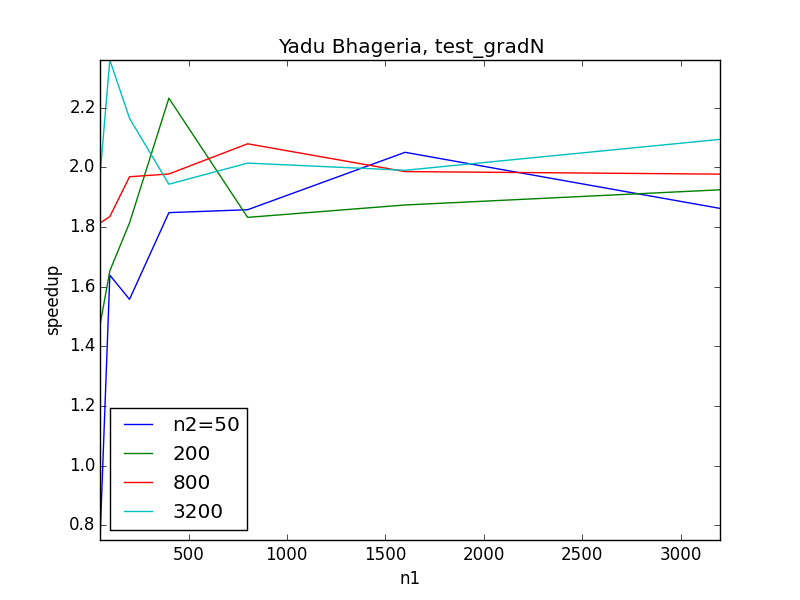
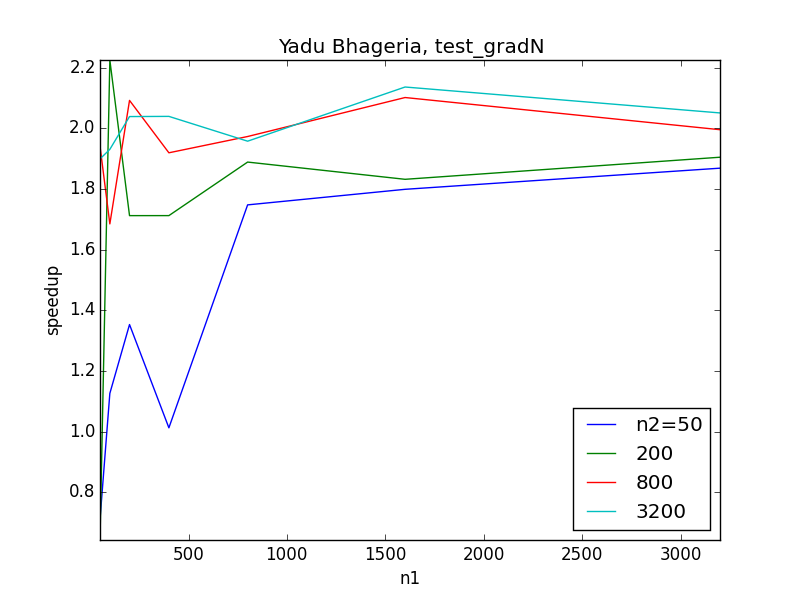
part1: brushed up. Need to convert dev files to ready to submit files only

diff --git a/part1/p1_dev.py b/part1/p1_dev.py
@@ -6,6 +6,9 @@ To build the .so module:
 rm *.mod
 gfortran -c fdmodule.f90 fdmodule2d.f90
 f2py  --f90flags='-fopenmp' -lgomp -c fdmodule.f90 fdmodule2d.f90 -m p1_3 -llapack
+
+Code for functions from solutions for hw41.py which retains its functionality
+and adds functionality for computing speedup between grad and grad2d 
 """
 from p1_3 import fdmodule as f1
 from p1_3 import fdmodule2d as f2d
@@ -40,7 +43,6 @@ def test_grad1(n1,n2,numthreads):
         tarray += [t]
         tparray += [tp]
         t2darray += [t2d]
-    
 
     return e,ep,e2d,np.mean(tarray),np.mean(tparray),np.mean(t2darray)
 
@@ -48,18 +50,22 @@ def test_gradN(numthreads):
     """input: number of threads used in test_grad_omp
     call test_grad1 with a range of grid sizes and
     assess speedup
+    The speeds for the two approaches are different because in grad we loop over
+    rows/columns - depending on whether we compute df/dx1 or df/dx2 - calling 
+    DGSTV many times but in grad2d we call DGSTV once and use its optimized code 
+    to deal with the looping to solve the nrhs systems of equations in one go.
     """
-
+        
     n1values = np.array([50, 100, 200, 400, 800, 1600, 3200])
     n2values = n1values
     nn = np.size(n1values)
     speedup = np.empty((nn,nn))
     speedup2d = np.empty((nn,nn))
-
+    
     #loop through 50<n1,n2<1600 storing speedup
     for i in enumerate(n1values):
         for j in enumerate(n2values):
-            print "running with n1,n2=",i[1],j[1]              
+            print "running with n1,n2=",i[1],j[1]          
             f2d.n1=i[1]
             f2d.n2=j[1]
     
@@ -67,22 +73,23 @@ def test_gradN(numthreads):
             speedup[i[0],j[0]] = t/tp #compute and store speedup
             speedup2d[i[0],j[0]] = t/t2d
             
-    #display results
+    #display results - same result from hw4 part 1
     plt.figure()
     plt.plot(n1values,speedup[:,::2])
     plt.legend(('n2=50','200','800','3200'),loc='best')
     plt.xlabel('n1')
-    plt.ylabel('speedup')
-    plt.title('Yadu Bhageria, test_gradN')
+    plt.ylabel('speedup, t/tp')
+    plt.title('Yadu Bhageria, test_gradN, Speedup between grad and grad_omp')
     plt.axis('tight')
     plt.savefig("p1_fig1.png")
     
+    #new speedup graph
     plt.figure()
     plt.plot(n1values,speedup2d[:,::2])
     plt.legend(('n2=50','200','800','3200'),loc='best')
     plt.xlabel('n1')
-    plt.ylabel('speedup2d')
-    plt.title('Yadu Bhageria, test_gradN')
+    plt.ylabel('speedup2d, t/t2d')
+    plt.title('Yadu Bhageria, test_gradN, Speedup between grad and grad2d')
     plt.axis('tight')
     plt.savefig("p1_fig2.png")   
     
